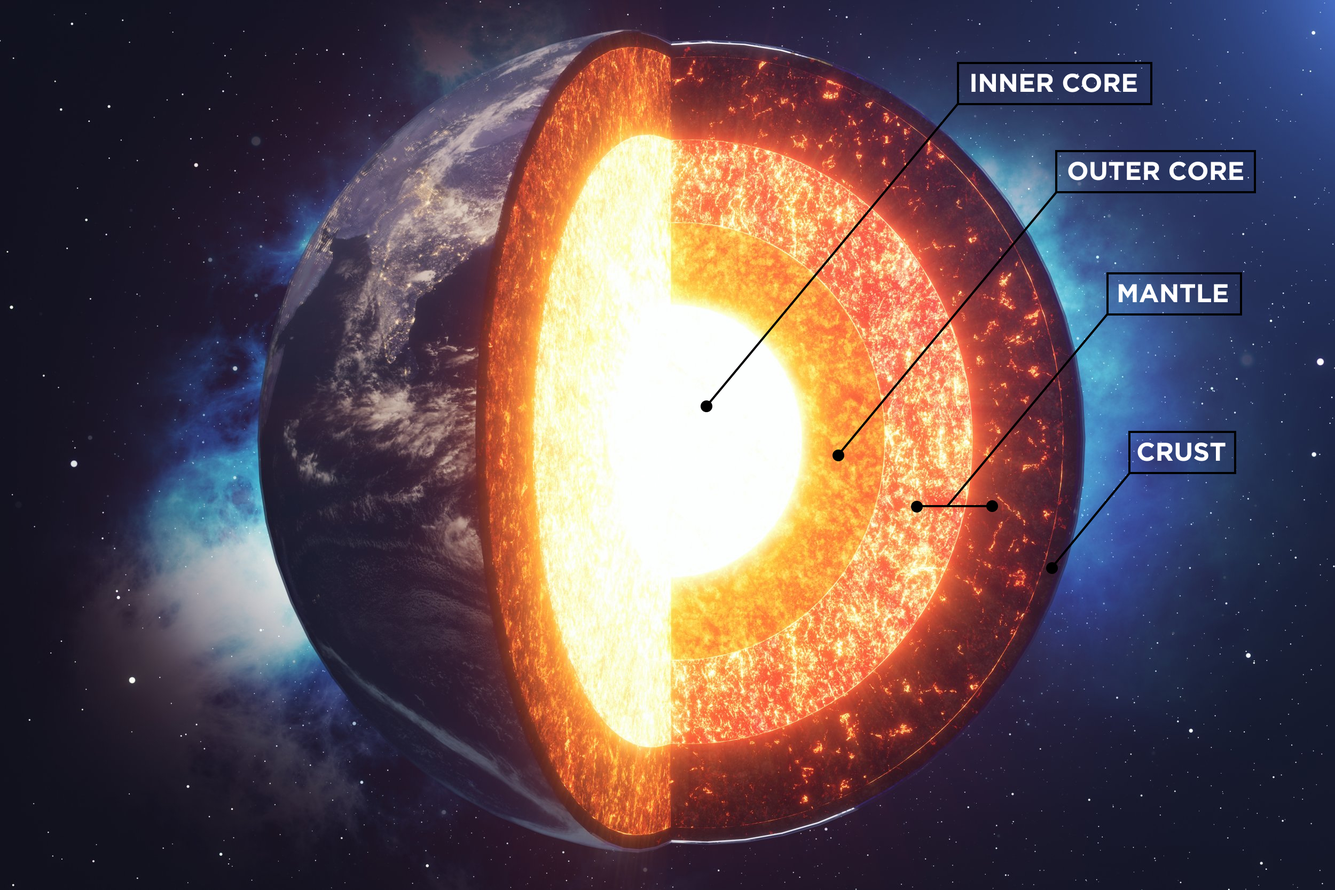
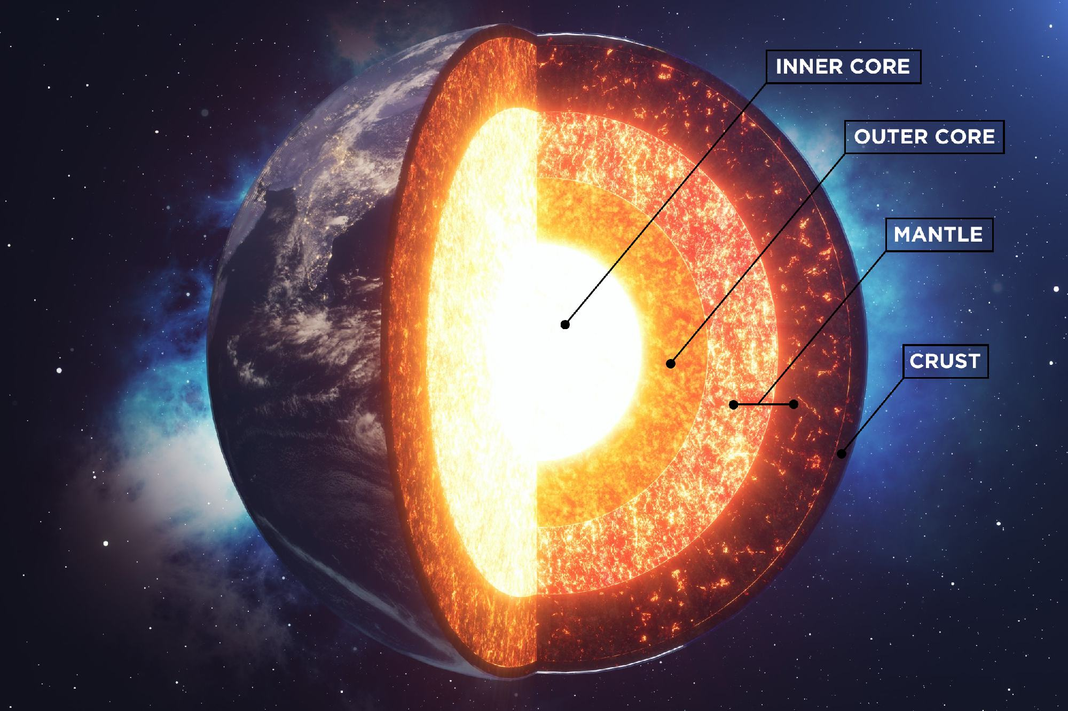
optimized images

diff --git a/Gallery/Mars-gallery.html b/Gallery/Mars-gallery.html
@@ -53,7 +53,7 @@
             <img src="https://live.staticflickr.com/65535/49195967262_491567a250_k_d.jpg" alt="Mars">
         </div>
         <div style="grid-area: img5;">
-            <img src="https://live.staticflickr.com/754/32639161052_e76497ebba_o_d.jpg" alt="Mars">
+            <img src="../Resources/Mars_CrescentV2.jpg" alt="Mars">
         </div>
         <div style="grid-area: img6;">
             <img style="object-fit: cover;" src="https://live.staticflickr.com/65535/49204706718_72aa1b6f16_o_d.jpg"
@@ -64,20 +64,16 @@
                 src="https://github.com/98mohitkumar/solar-system/raw/master/Resources/Mars%20Valles.mp4"></video>
         </div>
         <div style="grid-area: img8;">
-            <img style="object-fit: cover;" src="https://live.staticflickr.com/7903/46831261434_b9d9bc7680_o_d.jpg"
-                alt="Mars">
+            <img style="object-fit: cover;" src="../Resources/Mars_CraterV1.jpg" alt="Mars">
         </div>
         <div style="grid-area: img9;">
-            <img style="object-fit: cover;" src="https://live.staticflickr.com/7846/47502139412_088d3ed3f6_o_d.jpg"
-                alt="Mars">
+            <img style="object-fit: cover;" src="../Resources/Mars_CraterV2.jpg" alt="Mars">
         </div>
         <div style="grid-area: img10;">
-            <img style="object-fit: cover;" src="https://live.staticflickr.com/7850/47593950081_c6d3469d54_o_d.jpg"
-                alt="Mars">
+            <img style="object-fit: cover;" src="../Resources/Mars_TerraV1.jpg" alt="Mars">
         </div>
         <div style="grid-area: img11;">
-            <img style="object-fit: cover;" src="https://live.staticflickr.com/7894/40627934563_5f711cd549_o_d.jpg"
-                alt="Mars">
+            <img style="object-fit: cover;" src="../Resources/Mars_TerraV2.jpg" alt="Mars">
         </div>
         <div style="grid-area: img12;">
             <video style="width: 100%; height: 100%; object-fit: cover;" muted controls
@@ -88,8 +84,7 @@
                 src="https://github.com/98mohitkumar/solar-system/raw/master/Resources/Mars%20rotation.mp4"></video>
         </div>
         <div style="grid-area: img14;">
-            <img style="object-fit: cover;" src="https://live.staticflickr.com/4286/35397595032_32ebe422c8_o_d.jpg"
-                alt="Mars">
+            <img style="object-fit: cover;" src="../Resources/Mars_BigPatch.jpg" alt="Mars">
         </div>
         <div style="grid-area: img15;">
             <img style="object-fit: cover;" src="https://live.staticflickr.com/4169/34758451394_8d9c35d2a5_o_d.jpg"

diff --git a/Gallery/Sun-gallery.html b/Gallery/Sun-gallery.html
@@ -39,7 +39,7 @@
 
     <div class="GalleryWrapSun gridprops">
         <div style="grid-area: img1;">
-            <img style="object-fit: cover;" src="https://live.staticflickr.com/65535/51119839593_3bfd6a3fde_o_d.png"
+            <img style="object-fit: cover;" src="https://live.staticflickr.com/65535/51119839593_b0799f12e4_b_d.jpg"
                 alt="https://live.staticflickr.com/65535/51119839593_b0799f12e4_b_d.jpg">
         </div>
         <div style="grid-area: img2;">
@@ -51,11 +51,11 @@
                 src="https://solarsystem.nasa.gov/system/downloadable_items/356_solarfury.jpg" alt="Sun Fury">
         </div>
         <div style="grid-area: img4;">
-            <img style="object-fit: cover;" src="https://live.staticflickr.com/65535/51043705358_b57b398171_o_d.png"
+            <img style="object-fit: cover;" src="https://live.staticflickr.com/65535/51043705358_1f3183ec8d_h_d.jpg"
                 alt="https://live.staticflickr.com/65535/51043705358_1f3183ec8d_h_d.jpg">
         </div>
         <div style="grid-area: img5;">
-            <img src="https://live.staticflickr.com/65535/50788767602_f9a9b69c51_o_d.png"
+            <img src="https://live.staticflickr.com/65535/50788767602_aae162b448_b_d.jpg"
                 alt="https://live.staticflickr.com/65535/50788767602_aae162b448_b_d.jpg">
         </div>
         <div style="grid-area: img6;">
@@ -71,8 +71,7 @@
                 alt="https://live.staticflickr.com/65535/50610291896_cdb6aabf0d_b_d.jpg">
         </div>
         <div style="grid-area: img9;">
-            <img style="object-fit: cover;" src="https://live.staticflickr.com/968/42274511441_0ae775860a_o_d.jpg"
-                alt="https://live.staticflickr.com/968/42274511441_379618e7ab_b_d.jpg">
+            <img style="object-fit: cover;" src="../Resources/Sun.jpg" alt="">
         </div>
         <div style="grid-area: img10;">
             <video style="width: 100%; height: 100%;" muted controls

diff --git a/Gallery/Venus-gallery.html b/Gallery/Venus-gallery.html
@@ -39,22 +39,22 @@
 
     <div class="GalleryWrapVenus gridprops">
         <div style="grid-area: img1;">
-            <img src="https://live.staticflickr.com/65535/50732992733_3bff6fd006_o_d.png" alt="Venus">
+            <img src="https://live.staticflickr.com/65535/50732992733_10d70e5305_b_d.jpg" alt="Venus">
         </div>
         <div style="grid-area: img2;">
-            <img src="https://live.staticflickr.com/65535/50730769201_ff77544d61_o_d.png" alt="Venus">
+            <img src="https://live.staticflickr.com/65535/50730769201_c1f4f1916e_b_d.jpg" alt="Venus">
         </div>
         <div style="grid-area: img3;">
-            <img src="https://live.staticflickr.com/65535/50731258661_7c74aa5c61_o_d.png" alt="Venus">
+            <img src="https://live.staticflickr.com/65535/50731258661_ef6c8f623f_b_d.jpg" alt="Venus">
         </div>
         <div style="grid-area: img4;">
-            <img src="https://live.staticflickr.com/65535/50730811547_3e9d3235f3_o_d.png" alt="Venus">
+            <img src="https://live.staticflickr.com/65535/50730811547_4906ae6967_b_d.jpg" alt="Venus">
         </div>
         <div style="grid-area: img5;">
-            <img src="https://live.staticflickr.com/65535/50533077668_413e81e03f_o_d.png" alt="Venus">
+            <img src="https://live.staticflickr.com/65535/50495230642_481b4bec30_b_d.jpg" alt="Venus">
         </div>
         <div style="grid-area: img6;">
-            <img src="https://live.staticflickr.com/65535/50495230642_df79fe5136_o_d.png" alt="Venus">
+            <img src="https://live.staticflickr.com/65535/50533077668_59a8baaca2_b_d.jpg" alt="Venus">
         </div>
         <div style="grid-area: img7;">
             <img src="https://live.staticflickr.com/65535/49430965401_a0a4826d74_o_d.jpg" alt="Venus">

diff --git a/Gallery/Earth-gallery.html b/Gallery/Earth-gallery.html
@@ -39,17 +39,16 @@
 
     <div class="GalleryWrapEarth gridprops">
         <div style="grid-area: img1;">
-            <img src="https://live.staticflickr.com/4461/26267973129_d8180bab9b_o_d.jpg" alt="Earth">
+            <img src="../Resources/Earth_Big.jpg" alt="Earth">
         </div>
         <div style="grid-area: img2;">
-            <img src="https://live.staticflickr.com/65535/47798565972_e7555fe706_o_d.jpg" alt="Earth">
+            <img src="../Resources/Earth_Wide.jpg" alt="Earth">
         </div>
         <div style="grid-area: img3;">
-            <img style="object-fit: cover;" src="https://live.staticflickr.com/4740/25259885547_2a0252581a_o_d.jpg"
-                alt="Earth">
+            <img style="object-fit: cover;" src="../Resources/Earth_Cebile.jpg" alt="Earth">
         </div>
         <div style="grid-area: img4;">
-            <img src="https://live.staticflickr.com/4773/26971332288_1a945f8258_o_d.jpg" alt="Earth">
+            <img src="../Resources/Earth_Gita.jpg" alt="Earth">
         </div>
         <div style="grid-area: img5;">
             <img style="object-fit: cover;" src="https://live.staticflickr.com/1758/28646874148_3a0f2d3bee_o_d.jpg"
@@ -86,8 +85,7 @@
                 alt="Earth">
         </div>
         <div style="grid-area: img14;">
-            <img style="object-fit: cover;" src="https://live.staticflickr.com/859/43911024521_40cc85c486_o_d.jpg"
-                alt="Earth">
+            <img style="object-fit: cover;" src="../Resources/Earth_Night.jpg" alt="Earth">
         </div>
     </div>
 

diff --git a/Solar System/mars.html b/Solar System/mars.html
@@ -195,7 +195,7 @@
             <div class="TD-model">
                 <iframe src='https://solarsystem.nasa.gov/gltf_embed/2372' width='100%' height='450px'
                     frameborder='0'></iframe>
-            </div><br><br>
+            </div>
 
             <h2 class="m-heading" id="Formation">Formation</h2><br>
             <p>When the solar system settled into its current layout about 4.5 billion years ago, Mars formed when
@@ -354,7 +354,7 @@
                         <div class="TD-model" style="width: 100%;">
                             <iframe src='https://solarsystem.nasa.gov/gltf_embed/2358' width='100%' height='450px'
                                 frameborder='0'></iframe>
-                        </div><br>
+                        </div>
 
                         <h2 class="modal-heading">How Phobos Got its Name</h2>
                         <p>Hall named Mars' moons for the mythological sons of Ares, the Greek counterpart of the Roman
@@ -396,7 +396,7 @@
                         <div class="TD-model" style="width: 100%;">
                             <iframe src='https://solarsystem.nasa.gov/gltf_embed/2434' width='100%' height='450px'
                                 frameborder='0'></iframe>
-                        </div><br><br>
+                        </div>
 
                         <p>Deimos is a dark body that appears to be composed of C-type surface materials, similar to
                             that

diff --git a/css/style.css b/css/style.css
@@ -1,4 +1,4 @@
-@import url("http://fonts.cdnfonts.com/css/gilroy-bold");
+@import url("https://fonts.cdnfonts.com/css/gilroy-bold");
 @import url("https://fonts.googleapis.com/css2?family=Montserrat:wght@400&display=swap");
 @import url("https://api.fontshare.com/css?f[]=general-sans@500&display=swap");
 
@@ -170,6 +170,10 @@ p {
 
 .quick-facts li:nth-child(even) {
   padding-bottom: 1rem;
+}
+
+.TD-model {
+  margin-bottom: 1.5rem;
 }
 
 table {
@@ -420,7 +424,7 @@ td {
 }
 
 .btn a {
-  width: 200px;
+  width: 205px;
   padding: 0.75rem 1.5rem;
   display: block;
   color: white;

diff --git a/Solar System/venus.html b/Solar System/venus.html
@@ -194,7 +194,7 @@
             <div class="TD-model">
                 <iframe src='https://solarsystem.nasa.gov/gltf_embed/2342' width='100%' height='450px'
                     frameborder='0'></iframe>
-            </div><br><br>
+            </div>
 
             <p>It is thought that Venus was completely resurfaced by volcanic activity 300 to 500 million years ago.
                 Venus has two large highland areas: Ishtar Terra, about the size of Australia, in the north polar

diff --git a/Moons/Moon.html b/Moons/Moon.html
@@ -141,7 +141,7 @@
             <div class="TD-model">
                 <iframe src='https://solarsystem.nasa.gov/gltf_embed/2366' width='100%' height='450px'
                     frameborder='0'></iframe>
-            </div><br><br>
+            </div>
 
             <h2 class="m-heading" id="Orbit_and_Rotation">Orbit and Rotation</h2><br>
             <p>The Moon is rotating at the same rate that it revolves around Earth (called synchronous rotation), so the

diff --git a/Solar System/earth.html b/Solar System/earth.html
@@ -158,7 +158,7 @@
             <div class="TD-model">
                 <iframe src='https://solarsystem.nasa.gov/gltf_embed/2392' width='100%' height='450px'
                     frameborder='0'></iframe>
-            </div><br><br>
+            </div>
 
             <h2 class="m-heading" id="Orbit_and_Rotation">Orbit and Rotation</h2><br>
             <p>As Earth orbits the Sun, it completes one rotation every 23.9 hours. It takes 365.25 days to complete one

diff --git a/Solar System/saturn.html b/Solar System/saturn.html
@@ -167,7 +167,7 @@
             <div class="TD-model">
                 <iframe src='https://solarsystem.nasa.gov/gltf_embed/2355' width='100%' height='450px'
                     frameborder='0'></iframe>
-            </div><br><br>
+            </div>
 
             <h2 class="m-heading" id="Orbit_and_Rotation">Orbit and Rotation</h2><br>
             <p>Saturn has the second-shortest day in the solar system. One day on Saturn takes only 10.7 hours (the time

diff --git a/Solar System/jupiter.html b/Solar System/jupiter.html
@@ -209,8 +209,7 @@
             <div class="TD-model">
                 <iframe src='https://solarsystem.nasa.gov/gltf_embed/2375' width='100%' height='450px'
                     frameborder='0'></iframe>
-            </div><br>
-
+            </div>
 
             <h2 class="m-heading" id="Orbit_and_Rotation">Orbit and Rotation</h2><br>
             <p>Jupiter has the shortest day in the solar system. One day on Jupiter takes only about 10 hours (the time

diff --git a/Solar System/mercury.html b/Solar System/mercury.html
@@ -151,7 +151,7 @@
             <div class="TD-model">
                 <iframe src='https://solarsystem.nasa.gov/gltf_embed/2369' width='100%' height='450px'
                     frameborder='0'></iframe>
-            </div><br><br>
+            </div>
 
             <h2 class="m-heading" id="Orbit_and_Rotation">Orbit and Rotation</h2><br>
             <p>Mercury's highly eccentric, egg-shaped orbit takes the planet as close as 29 million miles (47 million
